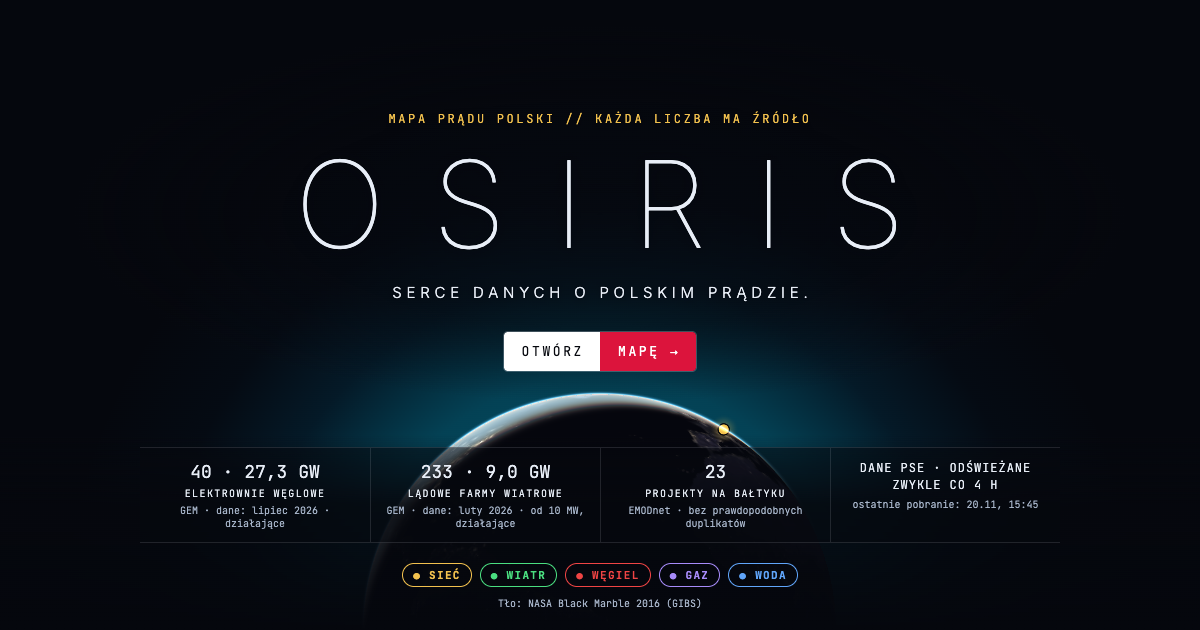
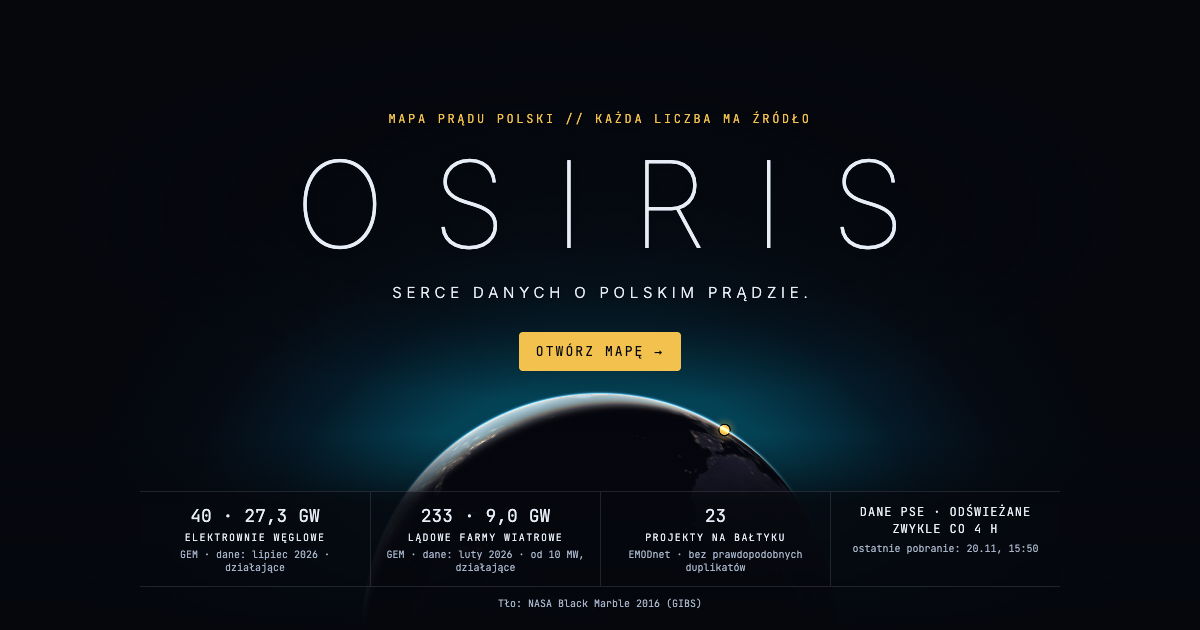
fix: strona tytułowa – bez chipów kolorów, złoty przycisk „OTWÓRZ MAPĘ →” zamiast flagi
Obrazek do udostępniania odświeżony w nowym wyglądzie.

diff --git a/src/tytulowa.css b/src/tytulowa.css
@@ -1,5 +1,5 @@
 /* Strona tytułowa OSIRIS – styl inspirowany God's Eye View (ciemne tło, cienki tytuł, etykiety o stałej szerokości,
-   cienkie ramki, chipy, zegar), ale nasz: złoty akcent, kolory warstw z mapy, nasze teksty i układ.
+   cienkie ramki, zegar), ale nasz: złoty akcent, kolory warstw z mapy, nasze teksty i układ.
    Wspólne zmienne (--tlo, --zloto, czcionki) i stopka pochodzą z style.css. */
 
 body.tytulowa {
@@ -193,36 +193,6 @@ body.tytulowa {
 .liczba .brak-danych {
   color: var(--ostrzezenie);
 }
-
-/* ── Chipy w kolorach warstw mapy (same etykiety, nie przyciski) ── */
-.chipy {
-  display: flex;
-  flex-wrap: wrap;
-  gap: 8px;
-  margin: 20px 0 0;
-  padding: 0;
-  list-style: none;
-}
-
-.chip {
-  padding: 4px 10px;
-  font-family: var(--font-mono);
-  font-size: 0.6875rem;
-  font-weight: 600;
-  letter-spacing: 0.12em;
-  border: 1px solid currentColor;
-  border-radius: 999px;
-}
-
-.chip::before {
-  content: '● ';
-}
-
-.chip--siec { color: #f2c14e; }
-.chip--wiatr { color: #4ade80; }
-.chip--wegiel { color: #ef4444; }
-.chip--gaz { color: #a78bfa; }
-.chip--woda { color: #60a5fa; }
 
 /* ── Karty „Co znajdziesz” ── */
 .karty {
@@ -506,10 +476,6 @@ body.tytulowa {
   font-weight: 300;
 }
 
-.bohater .chipy {
-  justify-content: center;
-}
-
 .bohater .bohater__nasa {
   text-align: center;
   font-weight: 300;
@@ -555,49 +521,4 @@ body.tytulowa {
 .rog--lewy .opis-panel {
   right: auto;
   left: 0;
-}
-
-/* Przycisk „OTWÓRZ MAPĘ →” w barwach flagi Polski: lewa połowa biała, prawa czerwona (#DC143C).
-   Kontrast: ciemny tekst na bieli 19,6:1; biały tekst na #DC143C 5,1:1 (pomiar 20.11.2026). */
-.przycisk-flaga {
-  display: inline-flex;
-  margin-top: 30px;
-  font-family: var(--font-mono);
-  font-size: 0.8125rem;
-  font-weight: 400;
-  letter-spacing: 0.2em;
-  text-decoration: none;
-  border-radius: 4px;
-  overflow: hidden;
-  box-shadow: 0 0 0 1px rgba(232, 238, 247, 0.25);
-  transition: box-shadow 150ms ease, transform 150ms ease;
-}
-
-.przycisk-flaga span {
-  padding: 11px 16px 11px 18px;
-}
-
-.przycisk-flaga__bialy {
-  color: #05070d;
-  background: #ffffff;
-}
-
-.przycisk-flaga__czerwony {
-  color: #ffffff;
-  background: #dc143c;
-}
-
-.przycisk-flaga:hover {
-  box-shadow: 0 0 0 2px var(--zloto);
-}
-
-.przycisk-flaga:focus-visible {
-  outline: 2px solid var(--fokus);
-  outline-offset: 4px;
-}
-
-@media (prefers-reduced-motion: no-preference) {
-  .przycisk-flaga:hover {
-    transform: translateY(-1px);
-  }
 }

diff --git a/index.html b/index.html
@@ -42,7 +42,7 @@
         <p class="etykieta">MAPA PRĄDU POLSKI // KAŻDA LICZBA MA ŹRÓDŁO</p>
         <h1 class="tytul__nazwa">OSIRIS</h1>
         <p class="tytul__podtytul">SERCE DANYCH O POLSKIM PRĄDZIE.</p>
-        <a class="przycisk-flaga" href="/mapa/"><span class="przycisk-flaga__bialy">OTWÓRZ</span><span class="przycisk-flaga__czerwony">MAPĘ →</span></a>
+        <a class="przycisk przycisk--glowny" href="/mapa/">OTWÓRZ MAPĘ →</a>
       </div>
 
       <div class="bohater__dol">
@@ -69,13 +69,6 @@
           </li>
         </ul>
 
-        <ul class="chipy" aria-label="Kolory warstw na mapie">
-          <li class="chip chip--siec">SIEĆ</li>
-          <li class="chip chip--wiatr">WIATR</li>
-          <li class="chip chip--wegiel">WĘGIEL</li>
-          <li class="chip chip--gaz">GAZ</li>
-          <li class="chip chip--woda">WODA</li>
-        </ul>
         <p class="bohater__nasa">Tło: NASA Black Marble 2016 (GIBS)</p>
       </div>
     </section>
